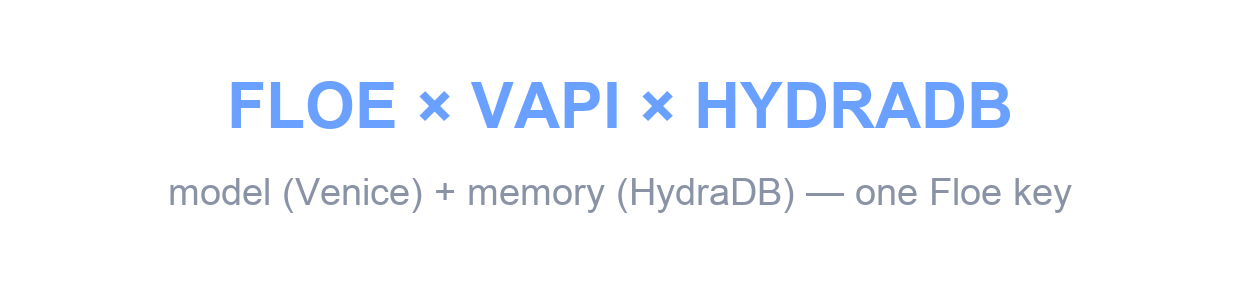
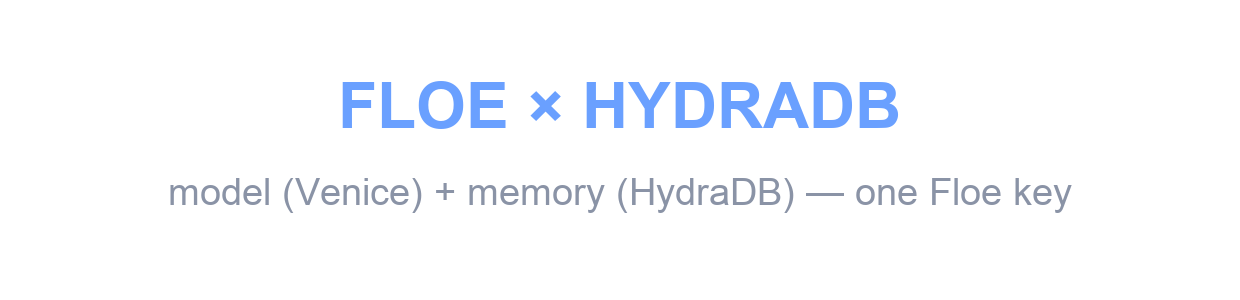
docs: remove VAPI from memory demo poster + point to re-rendered video

Changed region(s): [[0.1839, 0.27, 0.8274, 0.45]]

diff --git a/README.md b/README.md
@@ -84,7 +84,7 @@ See [`vapi-venice-voice-agent`](./vapi-venice-voice-agent).
 
 ### Persistent-memory voice concierge — recall across calls
 
-<a href="https://github.com/Floe-Labs/floe-cookbook/releases/download/demo-media-v1/memory-demo-labeled.mp4"><img src="./docs/media/poster-memory.png" alt="Watch the persistent-memory demo" width="640"></a>
+<a href="https://github.com/Floe-Labs/floe-cookbook/releases/download/demo-media-v2/memory-demo-labeled.mp4"><img src="./docs/media/poster-memory.png" alt="Watch the persistent-memory demo" width="640"></a>
 
 The agent stores caller facts in HydraDB and recalls them on a later call — brain
 (Venice) + memory (HydraDB) on **one Floe key**, no vendor keys.
